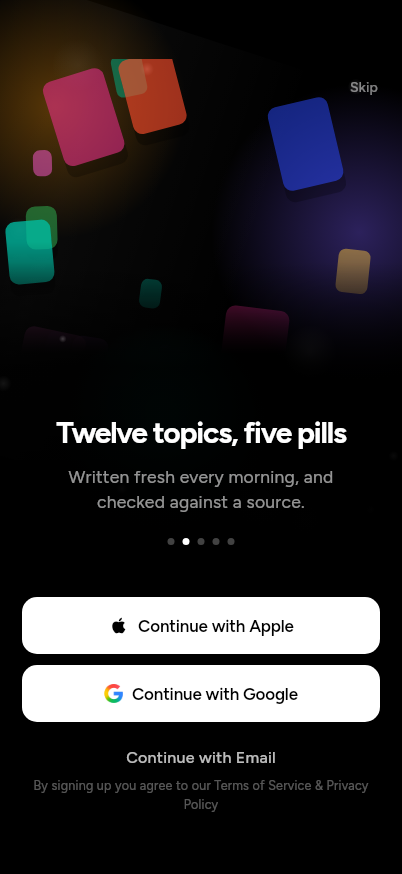
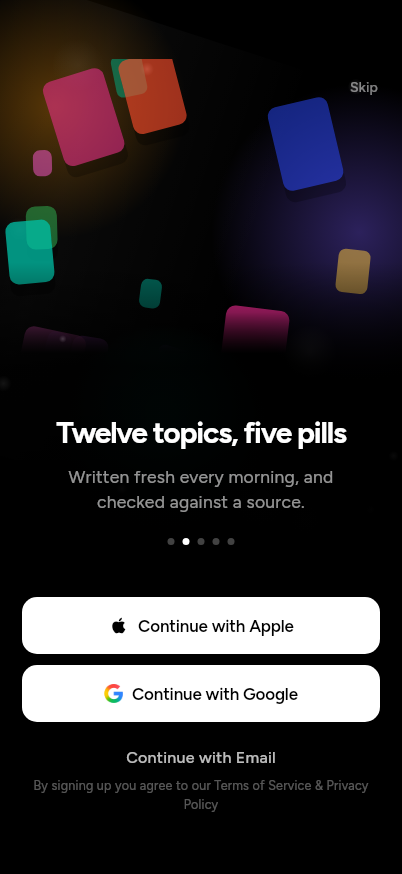
Close the hole between the picture and the words in two scenes
The two scenes you photographed do not put their titles lower than the
others — measured on your own handset they land at 0.465 and 0.464 of the
screen, which is where every other scene puts its title too. What differs is
the gap between where the drawing stops and where the words start, and on a
390 by 844 phone it was 235 points on the falling cards and 122 on the
chips, against 9 and 34 on the scenes that look right. A picture that gives
up early leaves a hole, and the eye reads the hole as the text having
slipped down.

So the drawing comes down to meet the words rather than the words coming up.

The falling cards faded out from 62% of their band, which is a third of the
scene surrendered before the band even ended; the fade starts at 86% now, so
they still leave by fading and there is still no straight edge to see, but
they leave at the bottom. The chips were wrapped and centred — a hundred and
forty points of content in a band worth two hundred and fifty — and are laid
out as three rows spread down it instead.

Both gaps are now in line with the rest: 77 and 88 against 83.

A camera at 390 by 844 with it, because that is the handset this was
reported from and none of it was visible at 402.

diff --git a/lib/screens/intro_screen.dart b/lib/screens/intro_screen.dart
@@ -853,7 +853,11 @@ class _SceneRain extends StatelessWidget {
           begin: Alignment.topCenter,
           end: Alignment.bottomCenter,
           colors: [Color(0xFFFFFFFF), Color(0xFFFFFFFF), Color(0x00FFFFFF)],
-          stops: [0, 0.62, 1],
+          // The fade used to begin at 62%, which meant the cards were gone
+          // well before the band was, and the scene ended a long way above
+          // the copy. It still leaves by fading — there is no straight edge
+          // to see — but it does it at the bottom rather than in the middle.
+          stops: [0, 0.86, 1],
         ).createShader(rect),
         child: ClipRect(
           child: Stack(
@@ -1338,19 +1342,30 @@ class _SceneChips extends StatelessWidget {
 
   @override
   Widget build(BuildContext context) {
+    // Three rows spread down the band rather than huddled in the middle of
+    // it. Wrapped, they took a hundred and forty points of a band worth two
+    // hundred and fifty, and the hundred left over sat as a hole between the
+    // picture and the words — which reads as the words having slipped, not
+    // as the picture being short.
     return SizedBox(
       width: 334,
-      child: Wrap(
-        spacing: 10,
-        runSpacing: 10,
-        alignment: WrapAlignment.center,
-        runAlignment: WrapAlignment.center,
+      height: _SceneStage.bandHeight,
+      child: Column(
+        mainAxisAlignment: MainAxisAlignment.spaceEvenly,
         children: [
-          for (int i = 0; i < _names.length; i++)
-            _Pop(
-              duration: const Duration(milliseconds: 620),
-              delay: Duration(milliseconds: (120 + i * 60)),
-              child: _chip(i),
+          for (int row = 0; row < 3; row++)
+            Row(
+              mainAxisAlignment: MainAxisAlignment.center,
+              children: [
+                for (int col = 0; col < 3; col++) ...[
+                  if (col > 0) const SizedBox(width: 10),
+                  _Pop(
+                    duration: const Duration(milliseconds: 620),
+                    delay: Duration(milliseconds: 120 + (row * 3 + col) * 60),
+                    child: _chip(row * 3 + col),
+                  ),
+                ],
+              ],
             ),
         ],
       ),

diff --git a/tool/intro_shots.dart b/tool/intro_shots.dart
@@ -37,6 +37,10 @@ Future<void> _loadFonts() async {
 
 void _nothing(Map<String, double> _) {}
 
+void _noop() {}
+Future<bool> _no() async => false;
+void _ignore(String _) {}
+
 void main() {
   const Size phone = Size(402, 874);
   const EdgeInsets insets = EdgeInsets.only(top: 59, bottom: 34);
@@ -83,6 +87,53 @@ void main() {
         await tester.tapAt(const Offset(200, 300));
         await tester.pump(const Duration(milliseconds: 400));
       }
+    }
+  });
+
+  testWidgets('the five scenes, on a 390 by 844 handset', (tester) async {
+    const Size small = Size(390, 844);
+    await tester.binding.setSurfaceSize(small);
+    addTearDown(() => tester.binding.setSurfaceSize(null));
+
+    await tester.pumpWidget(
+      MaterialApp(
+        theme: buildAstutoTheme(Brightness.dark),
+        debugShowCheckedModeBanner: false,
+        home: const MediaQuery(
+          data: MediaQueryData(
+            size: small,
+            padding: EdgeInsets.only(top: 47, bottom: 34),
+          ),
+          child: IntroScreen(
+            onContinue: _noop,
+            onApple: _no,
+            onGoogle: _no,
+            onNotConnected: _ignore,
+          ),
+        ),
+      ),
+    );
+    await tester.runAsync(
+      () => Future<void>.delayed(const Duration(milliseconds: 300)),
+    );
+    for (int f = 0; f < 10; f++) {
+      await tester.pump(const Duration(milliseconds: 120));
+    }
+    for (int scene = 0; scene < 5; scene++) {
+      if (scene > 0) {
+        await tester.fling(
+          find.byType(IntroScreen),
+          const Offset(-300, 0),
+          900,
+        );
+        for (int f = 0; f < 10; f++) {
+          await tester.pump(const Duration(milliseconds: 120));
+        }
+      }
+      await expectLater(
+        find.byType(IntroScreen),
+        matchesGoldenFile('shots/p390-$scene.png'),
+      );
     }
   });
 
